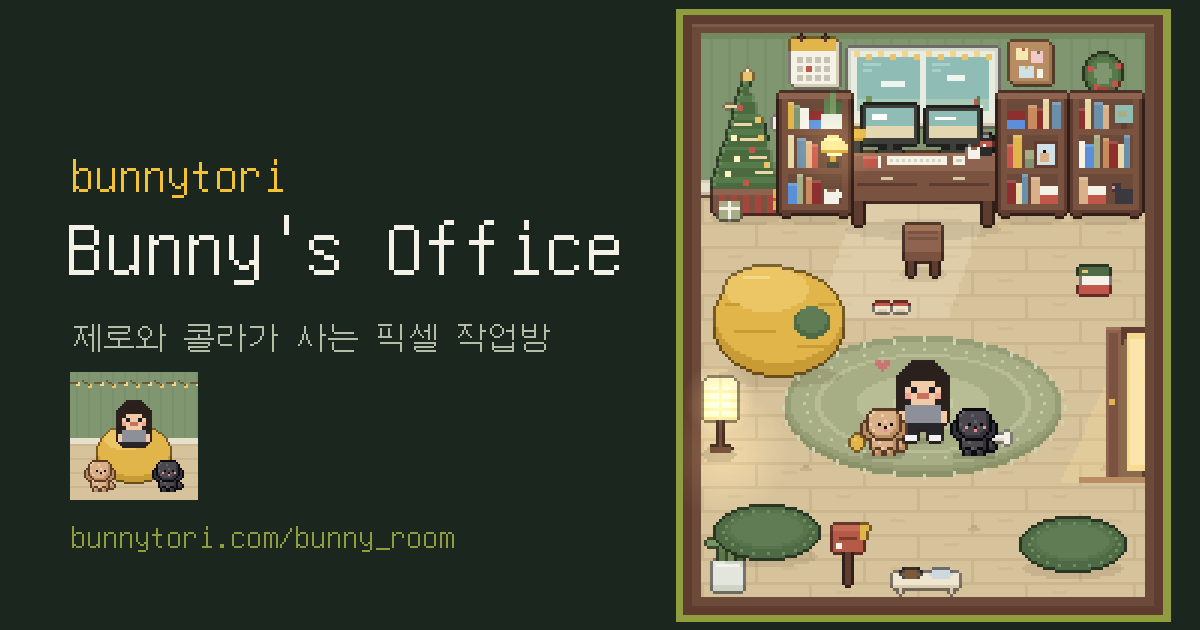
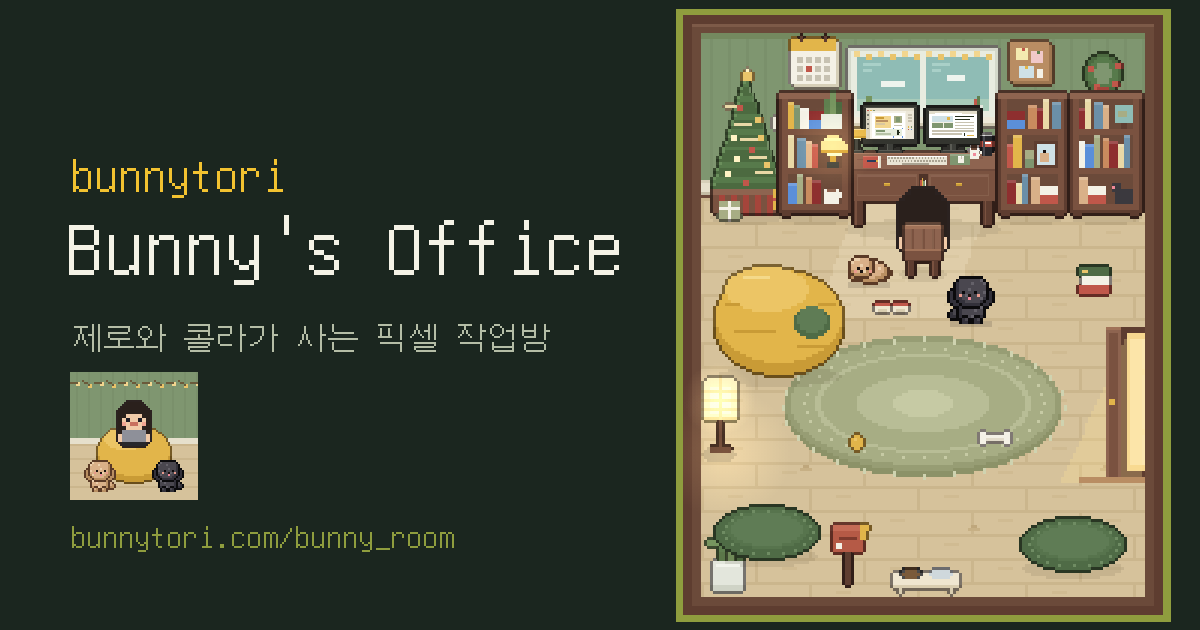
Room: 2x canvas; desk corner redrawn with half-step detail
Claude-Session: https://claude.ai/code/session_017jBMJu5sbdsGT4cjNbDcNS

diff --git a/bunny_room/index.html b/bunny_room/index.html
@@ -153,7 +153,7 @@ form.add textarea{font:inherit;font-size:16px;padding:8px;border:2px solid #b9c2
   </header>
 
   <div class="stage">
-    <canvas id="home" width="160" height="200" aria-label="픽셀 작업방. 내가 책상, 빈백, 러그를 오가고 강아지 두 마리가 따라다닙니다."></canvas>
+    <canvas id="home" width="320" height="400" aria-label="픽셀 작업방. 내가 책상, 빈백, 러그를 오가고 강아지 두 마리가 따라다닙니다."></canvas>
     <div class="ov" id="ov"></div>
     <div class="flash" id="flash"></div>
     <button class="walkbtn" id="walkBtn" type="button" hidden></button>
@@ -363,11 +363,14 @@ form.add textarea{font:inherit;font-size:16px;padding:8px;border:2px solid #b9c2
 </script>
 <script>
 (()=>{
-const W=160,H=200;
+const W=160,H=200,S=2; // logical grid 160×200, drawn on a 2× canvas so new art can use half-steps (x.5)
 const cv=document.getElementById('home');let ctx=cv.getContext('2d');
 const ov=document.getElementById('ov');
 const O='#2b2a24'; // outline
+const snap=v=>Math.round(v*S)/S;
 function R(x,y,w,h,c){ctx.fillStyle=c;ctx.fillRect(Math.round(x),Math.round(y),w,h);}
+/* fine pixel: half-step positions for 2× detail */
+function F(x,y,w,h,c){ctx.fillStyle=c;ctx.fillRect(snap(x),snap(y),snap(w),snap(h));}
 function B(x,y,w,h,c){R(x,y,w,h,O);R(x+1,y+1,w-2,h-2,c);} // outlined box
 function Rc(c,x,y,w,h,col){c.fillStyle=col;c.fillRect(x,y,w,h);}
 let mode='auto';
@@ -639,18 +642,19 @@ function decorProps(t){
   E(58,142,2,2,P.yel);R(57,141,1,1,P.yelL);
   R(132,90,10,3,'#c0574a');R(133,87,9,3,'#f4f1e6');R(132,84,10,3,P.cush);R(133,85,2,1,'#e9c46a');
 }
-/* outlines: each shape gets a 1px edge in a darker shade of its own colour */
+/* outlines: each shape gets a 1-unit (2 screen px) edge in a darker shade of its own colour */
+const OUT_NB=[[1,0],[-1,0],[0,1],[0,-1],[2,0],[-2,0],[0,2],[0,-2]];
 const OL={};
 function outlineOf(fn,w,h,fixed){
-  const c=document.createElement('canvas');c.width=w;c.height=h;const x=c.getContext('2d');
+  w*=S;h*=S;const c=document.createElement('canvas');c.width=w;c.height=h;const x=c.getContext('2d');x.setTransform(S,0,0,S,0,0);x.imageSmoothingEnabled=false;
   const keep=ctx;ctx=x;try{fn(0);}finally{ctx=keep;}
   const src=x.getImageData(0,0,w,h),d=src.data,out=x.createImageData(w,h),o=out.data;
   for(let yy=0;yy<h;yy++)for(let xx=0;xx<w;xx++){const i=(yy*w+xx)*4;if(d[i+3]>20)continue;
-    for(const [dx,dy] of [[1,0],[-1,0],[0,1],[0,-1]]){const nx=xx+dx,ny=yy+dy;if(nx<0||ny<0||nx>=w||ny>=h)continue;const j=(ny*w+nx)*4;
+    for(const [dx,dy] of OUT_NB){const nx=xx+dx,ny=yy+dy;if(nx<0||ny<0||nx>=w||ny>=h)continue;const j=(ny*w+nx)*4;
       if(d[j+3]>200){if(fixed){o[i]=fixed[0];o[i+1]=fixed[1];o[i+2]=fixed[2];}else{o[i]=d[j]*.52;o[i+1]=d[j+1]*.5;o[i+2]=d[j+2]*.5;}o[i+3]=255;break;}}}
   const r=document.createElement('canvas');r.width=w;r.height=h;r.getContext('2d').putImageData(out,0,0);return r;
 }
-function drawOutlined(key,fn,t){if(!OL[key])OL[key]=outlineOf(fn,W,H);ctx.drawImage(OL[key],0,0);fn(t);}
+function drawOutlined(key,fn,t){if(!OL[key])OL[key]=outlineOf(fn,W,H);ctx.drawImage(OL[key],0,0,W,H);fn(t);}
 /* characters: cached sprite + dark outline per look/pose/frame */
 const SPR=new Map();
 function sprite2(kind,look,pose,frame,flip,x,y){
@@ -684,18 +688,51 @@ const FURN=[
     R(7,122,11,13,'#f4e6b8');R(8,121,9,1,'#f4e6b8');R(7,134,11,1,'#e0cf8f');R(9,124,7,9,'#fff4cf');
     for(const y of[125,128,131])R(7,y,11,1,'#ead79a');R(12,121,1,14,'#ead79a');}},
   {y:98,d(){ctx.save();ctx.translate(-12,44);E(44,60,21,15,P.yelD);E(44,56,21,15,P.yel);E(40,47,14,7,P.yelL);R(32,43,9,1,'#f4d98a');R(29,61,14,1,P.yelD);R(50,66,10,1,P.yelD);R(57,52,6,1,P.yelD);R(26,52,5,1,P.yelD);E(55,58,6,5,P.cush);E(55,57,5,4,P.cushL);ctx.restore();}}, // big beanbag
-  {y:64,d(){ // desk with monitors, lamp, mug, notebook
-    const sc=isNight()?'#a9dcd6':P.glass;
-    R(60,30,18,13,'#3e3f3a');R(61,31,16,10,sc);R(61,37,16,4,'#e3d7b0');R(63,33,5,2,'#ffffff');R(68,43,2,3,'#3e3f3a');R(65,45,8,1,'#3e3f3a');
-    R(81,31,18,12,'#3e3f3a');R(82,32,16,9,sc);R(82,37,16,4,'#e3d7b0');R(84,34,7,1,'#ffffff');R(89,43,2,3,'#3e3f3a');R(86,45,8,1,'#3e3f3a');
-    R(56,46,48,6,P.woodL);R(56,46,48,1,'#a07258');R(56,52,48,10,P.wood);R(58,56,20,1,P.woodD);R(82,56,20,1,P.woodD);R(66,54,4,1,'#d9c7a0');R(90,54,4,1,'#d9c7a0');
-    R(57,62,3,8,P.woodD);R(100,62,3,8,P.woodD);
-    R(68,47,20,3,'#f4f1e6');for(let x=69;x<87;x+=2)R(x,48,1,1,'#d8d2c2');R(90,47,4,3,'#f4f1e6');R(91,48,2,1,'#cfc8b8');
-    R(57,40,2,6,'#3e3f3a');R(55,38,6,3,P.yel);R(56,41,4,1,'#c99b36'); // desk lamp
-    R(95,44,4,4,'#f4f1e6');R(99,45,1,2,'#f4f1e6');R(96,44,2,1,'#8e6450'); // mug
-    R(60,47,6,4,'#c0574a');R(60,47,6,1,'#d27766');R(65,47,1,4,'#f4f1e6'); // notebook
-    R(99,40,4,7,'#2a2a2a');R(99,42,4,2,'#c0574a');R(100,40,2,1,'#9a9a9a');R(100,43,1,1,'#ffffff');}},
-  {y:84,d(){R(74,70,12,8,'#8e6450');R(75,72,10,1,'#7a5240');R(75,74,10,1,'#7a5240');R(74,70,12,2,'#a07258');R(74,78,12,4,'#7a5240');R(74,78,12,1,'#8e6450');R(75,82,2,5,P.woodD);R(83,82,2,5,P.woodD);}}, // wooden chair
+  {y:64,d(){ // desk with monitors, lamp, mug, notebook — 2× detail (half-step pixels)
+    const BZ='#34352f',BZL='#4a4b44',GR='#83594a';
+    // left monitor: design tool
+    F(60,30,18,13,BZ);F(60.5,30.5,17,.5,BZL);
+    F(61,31,16,10.5,'#f4f1e6');F(61,31,16,1,'#e3ddca');F(61.5,31.5,.5,.5,'#c0574a');F(62.5,31.5,.5,.5,'#e2b54a');F(63.5,31.5,.5,.5,'#7f9670');
+    F(61,32,1.5,9.5,'#d9d3c0');for(const y of[33,34.5,36,37.5])F(61.5,y,.5,.5,'#7a7a70');
+    F(74.5,32,2.5,9.5,'#ece7d8');for(const y of[33,34,35])F(75,y,1.5,.5,'#c8c2b0');F(75,37,.5,.5,P.yel);F(76,37,.5,.5,'#7f9670');F(75,38,.5,.5,'#c0574a');F(76,38,.5,.5,'#5b8fd9');
+    F(63,32.5,11,8.5,'#ffffff');
+    F(64,33.5,5.5,4,'#f2d68f');F(64.5,34,2.5,.5,'#c99b36');F(64.5,35,4,.5,'#b98f62');F(64.5,36,3,.5,'#d9c7a0');
+    F(70.5,33.5,2.5,2.5,'#a7ad84');F(71,34,1.5,1.5,'#7f9670');F(70.5,36.5,2.5,.5,'#c8c2b0');
+    F(64,38,9,2.5,'#e7eedd');F(64.5,38.5,3,.5,'#7f9670');F(64.5,39.5,5,.5,'#b8c4a8');
+    F(70,37.5,.5,.5,'#5b8fd9');F(73,37.5,.5,.5,'#5b8fd9');F(70,40.5,.5,.5,'#5b8fd9');F(73,40.5,.5,.5,'#5b8fd9'); // selection handles
+    F(71.5,38.5,.5,1.5,'#26301f');F(72,39,.5,.5,'#26301f');
+    F(68,43,2,2.5,'#3e3f3a');F(68,43,.5,2.5,'#5a5b54');F(65,45,8,1,'#3e3f3a');F(65.5,45,7,.5,'#5a5b54');
+    // right monitor: writing a tennis blog post
+    F(81,31,18,12,BZ);F(81.5,31.5,17,.5,BZL);
+    F(82,32,16,9,'#ffffff');F(82,32,16,1,'#e3ddca');F(84,32.5,9,.5,'#ffffff');
+    F(83,33.5,7,4,'#cfe1e6');F(83,35.5,7,2,'#7f9670');F(83,35.5,7,.5,'#f4f1e6');F(86.5,35.5,.5,2,'#f4f1e6');F(88,34,1,1,'#e2b54a');
+    F(90.5,33.5,6.5,.5,'#26301f');F(90.5,34.5,5,.5,'#26301f');for(const y of[35.5,36.5,37.5])F(90.5,y,6.5,.5,'#c8c2b0');
+    F(83,38.5,14,.5,'#c8c2b0');F(83,39.5,10,.5,'#c8c2b0');F(93.5,39.5,.5,1,'#26301f');F(94.5,40,2.5,.5,P.yel);
+    F(89,43,2,2.5,'#3e3f3a');F(89,43,.5,2.5,'#5a5b54');F(86,45,8,1,'#3e3f3a');F(86.5,45,7,.5,'#5a5b54');
+    // desk
+    F(56,46,48,6,P.woodL);F(56,46,48,.5,'#a77a62');F(58,48,10,.5,GR);F(76,49.5,11,.5,GR);F(92,47.5,8,.5,GR);F(56,51.5,48,.5,'#6f4a3b');
+    F(56,52,48,10,P.wood);
+    for(const x of[58,82]){F(x,53,20,7.5,'#86604c');F(x+.5,53.5,19,6.5,P.wood);F(x+.5,53.5,19,.5,'#8a6250');F(x+9,56,2,1,'#c99b36');F(x+9,56,2,.5,'#e2b54a');}
+    F(78.5,53,3,7.5,'#4e3328');F(79,55,.5,5.5,'#c0574a');F(79.5,54.5,.5,6,'#e2b54a');F(80,55.5,.5,5,'#7f9670');F(80.5,55,.5,5.5,'#f4f1e6');
+    F(57,62,3,8,P.woodD);F(57.5,62,.5,8,'#7a5240');F(100,62,3,8,P.woodD);F(100.5,62,.5,8,'#7a5240');
+    // keyboard + mouse on an olive mat
+    F(68,47,20,3,'#e9e4d4');F(68,47,20,.5,'#ffffff');
+    for(let x=68.5;x<87.5;x+=1){F(x,47.5,.5,.5,'#aaa392');F(x+.5,48.5,.5,.5,'#aaa392');}F(73,49.5,9,.5,'#aaa392');
+    F(89,46.5,6.5,3.5,'#7f9670');F(89,46.5,6.5,.5,'#97a887');F(91.5,47,2,2.5,'#f4f1e6');F(91.5,47,2,.5,'#ffffff');F(92.5,47,.5,1,'#c8c2b0');
+    // desk lamp
+    F(57.5,41,1,4.5,'#3e3f3a');F(56,45,4,1,'#3e3f3a');F(56.5,45,3,.5,'#5a5b54');
+    F(55,38,6,3,P.yel);F(55.5,38,5,.5,'#f2d68f');F(55,40.5,6,.5,'#c99b36');F(56.5,41,3,.5,'#fff3c0');
+    // notebook + pen
+    F(60,47,6,4,'#c0574a');F(60,47,6,.5,'#d27766');F(65,47,1,4,'#f4f1e6');F(65.5,47,.5,4,'#e3ddca');F(61.5,48.5,3.5,.5,'#2a3a5a');F(64.5,48.5,.5,.5,'#e2b54a');
+    // zero cola can
+    F(99.5,40,3.5,7,'#26262a');F(99.5,40,3.5,.5,'#b8b8b8');F(100,40,.5,.5,'#e0e0e0');F(99.5,42,3.5,2,'#c0574a');F(100,42.5,2.5,.5,'#ffffff');F(100,40.5,.5,6.5,'#4a4a50');
+    // mug with a little heart
+    F(95.5,44.5,3,3.5,'#f4f1e6');F(95.5,44.5,3,.5,'#ffffff');F(96,44.5,2,.5,'#6b4a3a');F(98.5,45,.5,.5,'#f4f1e6');F(99,45.5,.5,1,'#f4f1e6');F(98.5,46.5,.5,.5,'#f4f1e6');F(96.5,46,.5,.5,'#f08a9a');F(97,46,.5,.5,'#f08a9a');F(96.5,46.5,1,.5,'#f08a9a');}},
+  {y:84,d(){ // wooden chair, seen from behind — 2× detail
+    F(74,70,12,8,'#8e6450');F(74,70,12,1.5,'#a07258');F(74.5,70,11,.5,'#b58a6e');
+    for(const x of[76,79.5,83]){F(x,71.5,1,6.5,'#7a5240');F(x,71.5,.5,6.5,'#86604c');}
+    F(74,78,12,4,'#7a5240');F(74,78,12,.5,'#a07258');F(74,81.5,12,.5,'#5e3d30');
+    F(75,82,2,5,P.woodD);F(75,82,.5,5,'#7a5240');F(83,82,2,5,P.woodD);F(83,82,.5,5,'#7a5240');}},
   {y:66,d(){ // bookshelves on both sides of the desk and one more on the far right
     const BK=['#c0574a','#e2b54a','#7f9670','#f4f1e6','#5b8fd9','#a7ad84','#c98b5e','#8e2f2f','#e9d8a6','#6b8fa8','#d9b088'];
     const shelf=(x,w,seed,extras)=>{
@@ -1253,8 +1290,8 @@ bellLabel();
 $('walkBtn').addEventListener('click',()=>{setView(VIEW==='walk'?'work':'walk',true);});
 /* crisp pixels: size the room to a whole number of screen pixels per art pixel */
 function snapStage(){const st=document.querySelector('.stage');if(!st)return;st.style.width='';
-  const avail=st.getBoundingClientRect().width,dpr=window.devicePixelRatio||1,k=Math.floor(avail*dpr/W);
-  if(k>=1&&k*W/dpr>=avail*.94)st.style.width=(k*W/dpr)+'px';} // only when it barely shrinks the room
+  const avail=st.getBoundingClientRect().width,dpr=window.devicePixelRatio||1,k=Math.floor(avail*dpr/cv.width);
+  if(k>=1&&k*cv.width/dpr>=avail*.94)st.style.width=(k*cv.width/dpr)+'px';} // only when it barely shrinks the room
 snapStage();addEventListener('resize',snapStage);
 /* night lighting */
 function glow(x,y,r,rgb,a){const g=ctx.createRadialGradient(x,y,0,x,y,r);g.addColorStop(0,`rgba(${rgb},${a})`);g.addColorStop(1,`rgba(${rgb},0)`);ctx.fillStyle=g;ctx.fillRect(x-r,y-r,r*2,r*2);}
@@ -1344,11 +1381,12 @@ function step(now){
     a.pose=a.kind==='dog'?'walk':'stand';a.ft+=dt;if(a.ft>.15){a.ft=0;a.frame=a.frame===1?2:1;}
     if(!a.path.length){a.frame=0;const s=a.target&&SPOT[a.target];a.pose=s?s.pose:(a.kind==='dog'?'sit':'stand');}
   });
+  ctx.setTransform(S,0,0,S,0,0);ctx.imageSmoothingEnabled=false;
   if(VIEW==='walk')drawWalk(t);else if(VIEW==='work')drawRoom(t);else drawLounge(t);
   if(VIEW==='work')softShadows();
   if(VIEW==='lounge')loungeShadows();
   (VIEW==='walk'?[]:VIEW==='work'?SHADOWS:LSHADOWS).forEach(([x,y,w])=>{R(x,y,w,3,'rgba(70,50,25,.16)');R(x+2,y+3,w-4,1,'rgba(70,50,25,.1)');});
-  const items=(VIEW==='walk'?[]:VIEW==='work'?FURN:LFURN).map((f,i)=>({y:f.y,draw:()=>{{const k=(VIEW==='work'?'f':'l')+i;if(!OL[k])OL[k]=outlineOf(f.d,W,H);ctx.drawImage(OL[k],0,0);}f.d(t);}}));
+  const items=(VIEW==='walk'?[]:VIEW==='work'?FURN:LFURN).map((f,i)=>({y:f.y,draw:()=>{{const k=(VIEW==='work'?'f':'l')+i;if(!OL[k])OL[k]=outlineOf(f.d,W,H);ctx.drawImage(OL[k],0,0,W,H);}f.d(t);}}));
   ACTORS.filter(a=>a.scene===VIEW).forEach(a=>items.push({y:a.y,draw:()=>{
     const x=Math.round(a.x),y=Math.round(a.y);
     if(a.kind==='dog'){R(x-7,y-1,14,2,'rgba(0,0,0,.13)');const hop=(a.pop>1.6)?-2:0;sprite2('dog',a.look,a.pose,a.frame,a.flip,x-8,y-17+hop);}

diff --git a/index.html b/index.html
@@ -153,7 +153,7 @@ form.add textarea{font:inherit;font-size:16px;padding:8px;border:2px solid #b9c2
   </header>
 
   <div class="stage">
-    <canvas id="home" width="160" height="200" aria-label="픽셀 작업방. 내가 책상, 빈백, 러그를 오가고 강아지 두 마리가 따라다닙니다."></canvas>
+    <canvas id="home" width="320" height="400" aria-label="픽셀 작업방. 내가 책상, 빈백, 러그를 오가고 강아지 두 마리가 따라다닙니다."></canvas>
     <div class="ov" id="ov"></div>
     <div class="flash" id="flash"></div>
     <button class="walkbtn" id="walkBtn" type="button" hidden></button>
@@ -363,11 +363,14 @@ form.add textarea{font:inherit;font-size:16px;padding:8px;border:2px solid #b9c2
 </script>
 <script>
 (()=>{
-const W=160,H=200;
+const W=160,H=200,S=2; // logical grid 160×200, drawn on a 2× canvas so new art can use half-steps (x.5)
 const cv=document.getElementById('home');let ctx=cv.getContext('2d');
 const ov=document.getElementById('ov');
 const O='#2b2a24'; // outline
+const snap=v=>Math.round(v*S)/S;
 function R(x,y,w,h,c){ctx.fillStyle=c;ctx.fillRect(Math.round(x),Math.round(y),w,h);}
+/* fine pixel: half-step positions for 2× detail */
+function F(x,y,w,h,c){ctx.fillStyle=c;ctx.fillRect(snap(x),snap(y),snap(w),snap(h));}
 function B(x,y,w,h,c){R(x,y,w,h,O);R(x+1,y+1,w-2,h-2,c);} // outlined box
 function Rc(c,x,y,w,h,col){c.fillStyle=col;c.fillRect(x,y,w,h);}
 let mode='auto';
@@ -639,18 +642,19 @@ function decorProps(t){
   E(58,142,2,2,P.yel);R(57,141,1,1,P.yelL);
   R(132,90,10,3,'#c0574a');R(133,87,9,3,'#f4f1e6');R(132,84,10,3,P.cush);R(133,85,2,1,'#e9c46a');
 }
-/* outlines: each shape gets a 1px edge in a darker shade of its own colour */
+/* outlines: each shape gets a 1-unit (2 screen px) edge in a darker shade of its own colour */
+const OUT_NB=[[1,0],[-1,0],[0,1],[0,-1],[2,0],[-2,0],[0,2],[0,-2]];
 const OL={};
 function outlineOf(fn,w,h,fixed){
-  const c=document.createElement('canvas');c.width=w;c.height=h;const x=c.getContext('2d');
+  w*=S;h*=S;const c=document.createElement('canvas');c.width=w;c.height=h;const x=c.getContext('2d');x.setTransform(S,0,0,S,0,0);x.imageSmoothingEnabled=false;
   const keep=ctx;ctx=x;try{fn(0);}finally{ctx=keep;}
   const src=x.getImageData(0,0,w,h),d=src.data,out=x.createImageData(w,h),o=out.data;
   for(let yy=0;yy<h;yy++)for(let xx=0;xx<w;xx++){const i=(yy*w+xx)*4;if(d[i+3]>20)continue;
-    for(const [dx,dy] of [[1,0],[-1,0],[0,1],[0,-1]]){const nx=xx+dx,ny=yy+dy;if(nx<0||ny<0||nx>=w||ny>=h)continue;const j=(ny*w+nx)*4;
+    for(const [dx,dy] of OUT_NB){const nx=xx+dx,ny=yy+dy;if(nx<0||ny<0||nx>=w||ny>=h)continue;const j=(ny*w+nx)*4;
       if(d[j+3]>200){if(fixed){o[i]=fixed[0];o[i+1]=fixed[1];o[i+2]=fixed[2];}else{o[i]=d[j]*.52;o[i+1]=d[j+1]*.5;o[i+2]=d[j+2]*.5;}o[i+3]=255;break;}}}
   const r=document.createElement('canvas');r.width=w;r.height=h;r.getContext('2d').putImageData(out,0,0);return r;
 }
-function drawOutlined(key,fn,t){if(!OL[key])OL[key]=outlineOf(fn,W,H);ctx.drawImage(OL[key],0,0);fn(t);}
+function drawOutlined(key,fn,t){if(!OL[key])OL[key]=outlineOf(fn,W,H);ctx.drawImage(OL[key],0,0,W,H);fn(t);}
 /* characters: cached sprite + dark outline per look/pose/frame */
 const SPR=new Map();
 function sprite2(kind,look,pose,frame,flip,x,y){
@@ -684,18 +688,51 @@ const FURN=[
     R(7,122,11,13,'#f4e6b8');R(8,121,9,1,'#f4e6b8');R(7,134,11,1,'#e0cf8f');R(9,124,7,9,'#fff4cf');
     for(const y of[125,128,131])R(7,y,11,1,'#ead79a');R(12,121,1,14,'#ead79a');}},
   {y:98,d(){ctx.save();ctx.translate(-12,44);E(44,60,21,15,P.yelD);E(44,56,21,15,P.yel);E(40,47,14,7,P.yelL);R(32,43,9,1,'#f4d98a');R(29,61,14,1,P.yelD);R(50,66,10,1,P.yelD);R(57,52,6,1,P.yelD);R(26,52,5,1,P.yelD);E(55,58,6,5,P.cush);E(55,57,5,4,P.cushL);ctx.restore();}}, // big beanbag
-  {y:64,d(){ // desk with monitors, lamp, mug, notebook
-    const sc=isNight()?'#a9dcd6':P.glass;
-    R(60,30,18,13,'#3e3f3a');R(61,31,16,10,sc);R(61,37,16,4,'#e3d7b0');R(63,33,5,2,'#ffffff');R(68,43,2,3,'#3e3f3a');R(65,45,8,1,'#3e3f3a');
-    R(81,31,18,12,'#3e3f3a');R(82,32,16,9,sc);R(82,37,16,4,'#e3d7b0');R(84,34,7,1,'#ffffff');R(89,43,2,3,'#3e3f3a');R(86,45,8,1,'#3e3f3a');
-    R(56,46,48,6,P.woodL);R(56,46,48,1,'#a07258');R(56,52,48,10,P.wood);R(58,56,20,1,P.woodD);R(82,56,20,1,P.woodD);R(66,54,4,1,'#d9c7a0');R(90,54,4,1,'#d9c7a0');
-    R(57,62,3,8,P.woodD);R(100,62,3,8,P.woodD);
-    R(68,47,20,3,'#f4f1e6');for(let x=69;x<87;x+=2)R(x,48,1,1,'#d8d2c2');R(90,47,4,3,'#f4f1e6');R(91,48,2,1,'#cfc8b8');
-    R(57,40,2,6,'#3e3f3a');R(55,38,6,3,P.yel);R(56,41,4,1,'#c99b36'); // desk lamp
-    R(95,44,4,4,'#f4f1e6');R(99,45,1,2,'#f4f1e6');R(96,44,2,1,'#8e6450'); // mug
-    R(60,47,6,4,'#c0574a');R(60,47,6,1,'#d27766');R(65,47,1,4,'#f4f1e6'); // notebook
-    R(99,40,4,7,'#2a2a2a');R(99,42,4,2,'#c0574a');R(100,40,2,1,'#9a9a9a');R(100,43,1,1,'#ffffff');}},
-  {y:84,d(){R(74,70,12,8,'#8e6450');R(75,72,10,1,'#7a5240');R(75,74,10,1,'#7a5240');R(74,70,12,2,'#a07258');R(74,78,12,4,'#7a5240');R(74,78,12,1,'#8e6450');R(75,82,2,5,P.woodD);R(83,82,2,5,P.woodD);}}, // wooden chair
+  {y:64,d(){ // desk with monitors, lamp, mug, notebook — 2× detail (half-step pixels)
+    const BZ='#34352f',BZL='#4a4b44',GR='#83594a';
+    // left monitor: design tool
+    F(60,30,18,13,BZ);F(60.5,30.5,17,.5,BZL);
+    F(61,31,16,10.5,'#f4f1e6');F(61,31,16,1,'#e3ddca');F(61.5,31.5,.5,.5,'#c0574a');F(62.5,31.5,.5,.5,'#e2b54a');F(63.5,31.5,.5,.5,'#7f9670');
+    F(61,32,1.5,9.5,'#d9d3c0');for(const y of[33,34.5,36,37.5])F(61.5,y,.5,.5,'#7a7a70');
+    F(74.5,32,2.5,9.5,'#ece7d8');for(const y of[33,34,35])F(75,y,1.5,.5,'#c8c2b0');F(75,37,.5,.5,P.yel);F(76,37,.5,.5,'#7f9670');F(75,38,.5,.5,'#c0574a');F(76,38,.5,.5,'#5b8fd9');
+    F(63,32.5,11,8.5,'#ffffff');
+    F(64,33.5,5.5,4,'#f2d68f');F(64.5,34,2.5,.5,'#c99b36');F(64.5,35,4,.5,'#b98f62');F(64.5,36,3,.5,'#d9c7a0');
+    F(70.5,33.5,2.5,2.5,'#a7ad84');F(71,34,1.5,1.5,'#7f9670');F(70.5,36.5,2.5,.5,'#c8c2b0');
+    F(64,38,9,2.5,'#e7eedd');F(64.5,38.5,3,.5,'#7f9670');F(64.5,39.5,5,.5,'#b8c4a8');
+    F(70,37.5,.5,.5,'#5b8fd9');F(73,37.5,.5,.5,'#5b8fd9');F(70,40.5,.5,.5,'#5b8fd9');F(73,40.5,.5,.5,'#5b8fd9'); // selection handles
+    F(71.5,38.5,.5,1.5,'#26301f');F(72,39,.5,.5,'#26301f');
+    F(68,43,2,2.5,'#3e3f3a');F(68,43,.5,2.5,'#5a5b54');F(65,45,8,1,'#3e3f3a');F(65.5,45,7,.5,'#5a5b54');
+    // right monitor: writing a tennis blog post
+    F(81,31,18,12,BZ);F(81.5,31.5,17,.5,BZL);
+    F(82,32,16,9,'#ffffff');F(82,32,16,1,'#e3ddca');F(84,32.5,9,.5,'#ffffff');
+    F(83,33.5,7,4,'#cfe1e6');F(83,35.5,7,2,'#7f9670');F(83,35.5,7,.5,'#f4f1e6');F(86.5,35.5,.5,2,'#f4f1e6');F(88,34,1,1,'#e2b54a');
+    F(90.5,33.5,6.5,.5,'#26301f');F(90.5,34.5,5,.5,'#26301f');for(const y of[35.5,36.5,37.5])F(90.5,y,6.5,.5,'#c8c2b0');
+    F(83,38.5,14,.5,'#c8c2b0');F(83,39.5,10,.5,'#c8c2b0');F(93.5,39.5,.5,1,'#26301f');F(94.5,40,2.5,.5,P.yel);
+    F(89,43,2,2.5,'#3e3f3a');F(89,43,.5,2.5,'#5a5b54');F(86,45,8,1,'#3e3f3a');F(86.5,45,7,.5,'#5a5b54');
+    // desk
+    F(56,46,48,6,P.woodL);F(56,46,48,.5,'#a77a62');F(58,48,10,.5,GR);F(76,49.5,11,.5,GR);F(92,47.5,8,.5,GR);F(56,51.5,48,.5,'#6f4a3b');
+    F(56,52,48,10,P.wood);
+    for(const x of[58,82]){F(x,53,20,7.5,'#86604c');F(x+.5,53.5,19,6.5,P.wood);F(x+.5,53.5,19,.5,'#8a6250');F(x+9,56,2,1,'#c99b36');F(x+9,56,2,.5,'#e2b54a');}
+    F(78.5,53,3,7.5,'#4e3328');F(79,55,.5,5.5,'#c0574a');F(79.5,54.5,.5,6,'#e2b54a');F(80,55.5,.5,5,'#7f9670');F(80.5,55,.5,5.5,'#f4f1e6');
+    F(57,62,3,8,P.woodD);F(57.5,62,.5,8,'#7a5240');F(100,62,3,8,P.woodD);F(100.5,62,.5,8,'#7a5240');
+    // keyboard + mouse on an olive mat
+    F(68,47,20,3,'#e9e4d4');F(68,47,20,.5,'#ffffff');
+    for(let x=68.5;x<87.5;x+=1){F(x,47.5,.5,.5,'#aaa392');F(x+.5,48.5,.5,.5,'#aaa392');}F(73,49.5,9,.5,'#aaa392');
+    F(89,46.5,6.5,3.5,'#7f9670');F(89,46.5,6.5,.5,'#97a887');F(91.5,47,2,2.5,'#f4f1e6');F(91.5,47,2,.5,'#ffffff');F(92.5,47,.5,1,'#c8c2b0');
+    // desk lamp
+    F(57.5,41,1,4.5,'#3e3f3a');F(56,45,4,1,'#3e3f3a');F(56.5,45,3,.5,'#5a5b54');
+    F(55,38,6,3,P.yel);F(55.5,38,5,.5,'#f2d68f');F(55,40.5,6,.5,'#c99b36');F(56.5,41,3,.5,'#fff3c0');
+    // notebook + pen
+    F(60,47,6,4,'#c0574a');F(60,47,6,.5,'#d27766');F(65,47,1,4,'#f4f1e6');F(65.5,47,.5,4,'#e3ddca');F(61.5,48.5,3.5,.5,'#2a3a5a');F(64.5,48.5,.5,.5,'#e2b54a');
+    // zero cola can
+    F(99.5,40,3.5,7,'#26262a');F(99.5,40,3.5,.5,'#b8b8b8');F(100,40,.5,.5,'#e0e0e0');F(99.5,42,3.5,2,'#c0574a');F(100,42.5,2.5,.5,'#ffffff');F(100,40.5,.5,6.5,'#4a4a50');
+    // mug with a little heart
+    F(95.5,44.5,3,3.5,'#f4f1e6');F(95.5,44.5,3,.5,'#ffffff');F(96,44.5,2,.5,'#6b4a3a');F(98.5,45,.5,.5,'#f4f1e6');F(99,45.5,.5,1,'#f4f1e6');F(98.5,46.5,.5,.5,'#f4f1e6');F(96.5,46,.5,.5,'#f08a9a');F(97,46,.5,.5,'#f08a9a');F(96.5,46.5,1,.5,'#f08a9a');}},
+  {y:84,d(){ // wooden chair, seen from behind — 2× detail
+    F(74,70,12,8,'#8e6450');F(74,70,12,1.5,'#a07258');F(74.5,70,11,.5,'#b58a6e');
+    for(const x of[76,79.5,83]){F(x,71.5,1,6.5,'#7a5240');F(x,71.5,.5,6.5,'#86604c');}
+    F(74,78,12,4,'#7a5240');F(74,78,12,.5,'#a07258');F(74,81.5,12,.5,'#5e3d30');
+    F(75,82,2,5,P.woodD);F(75,82,.5,5,'#7a5240');F(83,82,2,5,P.woodD);F(83,82,.5,5,'#7a5240');}},
   {y:66,d(){ // bookshelves on both sides of the desk and one more on the far right
     const BK=['#c0574a','#e2b54a','#7f9670','#f4f1e6','#5b8fd9','#a7ad84','#c98b5e','#8e2f2f','#e9d8a6','#6b8fa8','#d9b088'];
     const shelf=(x,w,seed,extras)=>{
@@ -1253,8 +1290,8 @@ bellLabel();
 $('walkBtn').addEventListener('click',()=>{setView(VIEW==='walk'?'work':'walk',true);});
 /* crisp pixels: size the room to a whole number of screen pixels per art pixel */
 function snapStage(){const st=document.querySelector('.stage');if(!st)return;st.style.width='';
-  const avail=st.getBoundingClientRect().width,dpr=window.devicePixelRatio||1,k=Math.floor(avail*dpr/W);
-  if(k>=1&&k*W/dpr>=avail*.94)st.style.width=(k*W/dpr)+'px';} // only when it barely shrinks the room
+  const avail=st.getBoundingClientRect().width,dpr=window.devicePixelRatio||1,k=Math.floor(avail*dpr/cv.width);
+  if(k>=1&&k*cv.width/dpr>=avail*.94)st.style.width=(k*cv.width/dpr)+'px';} // only when it barely shrinks the room
 snapStage();addEventListener('resize',snapStage);
 /* night lighting */
 function glow(x,y,r,rgb,a){const g=ctx.createRadialGradient(x,y,0,x,y,r);g.addColorStop(0,`rgba(${rgb},${a})`);g.addColorStop(1,`rgba(${rgb},0)`);ctx.fillStyle=g;ctx.fillRect(x-r,y-r,r*2,r*2);}
@@ -1344,11 +1381,12 @@ function step(now){
     a.pose=a.kind==='dog'?'walk':'stand';a.ft+=dt;if(a.ft>.15){a.ft=0;a.frame=a.frame===1?2:1;}
     if(!a.path.length){a.frame=0;const s=a.target&&SPOT[a.target];a.pose=s?s.pose:(a.kind==='dog'?'sit':'stand');}
   });
+  ctx.setTransform(S,0,0,S,0,0);ctx.imageSmoothingEnabled=false;
   if(VIEW==='walk')drawWalk(t);else if(VIEW==='work')drawRoom(t);else drawLounge(t);
   if(VIEW==='work')softShadows();
   if(VIEW==='lounge')loungeShadows();
   (VIEW==='walk'?[]:VIEW==='work'?SHADOWS:LSHADOWS).forEach(([x,y,w])=>{R(x,y,w,3,'rgba(70,50,25,.16)');R(x+2,y+3,w-4,1,'rgba(70,50,25,.1)');});
-  const items=(VIEW==='walk'?[]:VIEW==='work'?FURN:LFURN).map((f,i)=>({y:f.y,draw:()=>{{const k=(VIEW==='work'?'f':'l')+i;if(!OL[k])OL[k]=outlineOf(f.d,W,H);ctx.drawImage(OL[k],0,0);}f.d(t);}}));
+  const items=(VIEW==='walk'?[]:VIEW==='work'?FURN:LFURN).map((f,i)=>({y:f.y,draw:()=>{{const k=(VIEW==='work'?'f':'l')+i;if(!OL[k])OL[k]=outlineOf(f.d,W,H);ctx.drawImage(OL[k],0,0,W,H);}f.d(t);}}));
   ACTORS.filter(a=>a.scene===VIEW).forEach(a=>items.push({y:a.y,draw:()=>{
     const x=Math.round(a.x),y=Math.round(a.y);
     if(a.kind==='dog'){R(x-7,y-1,14,2,'rgba(0,0,0,.13)');const hop=(a.pop>1.6)?-2:0;sprite2('dog',a.look,a.pose,a.frame,a.flip,x-8,y-17+hop);}
